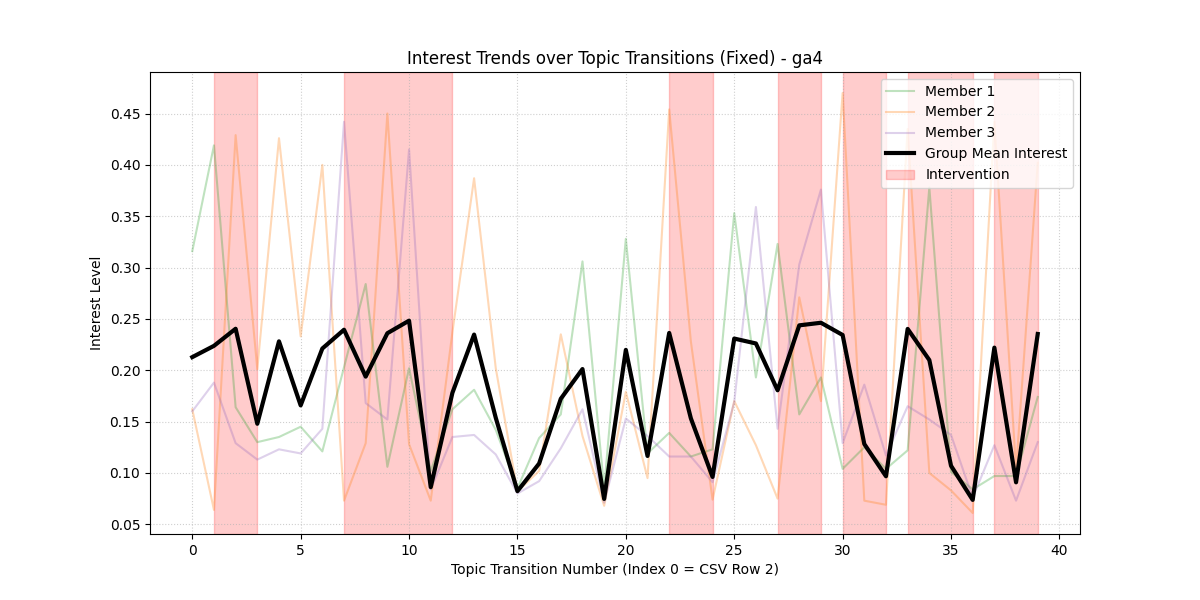
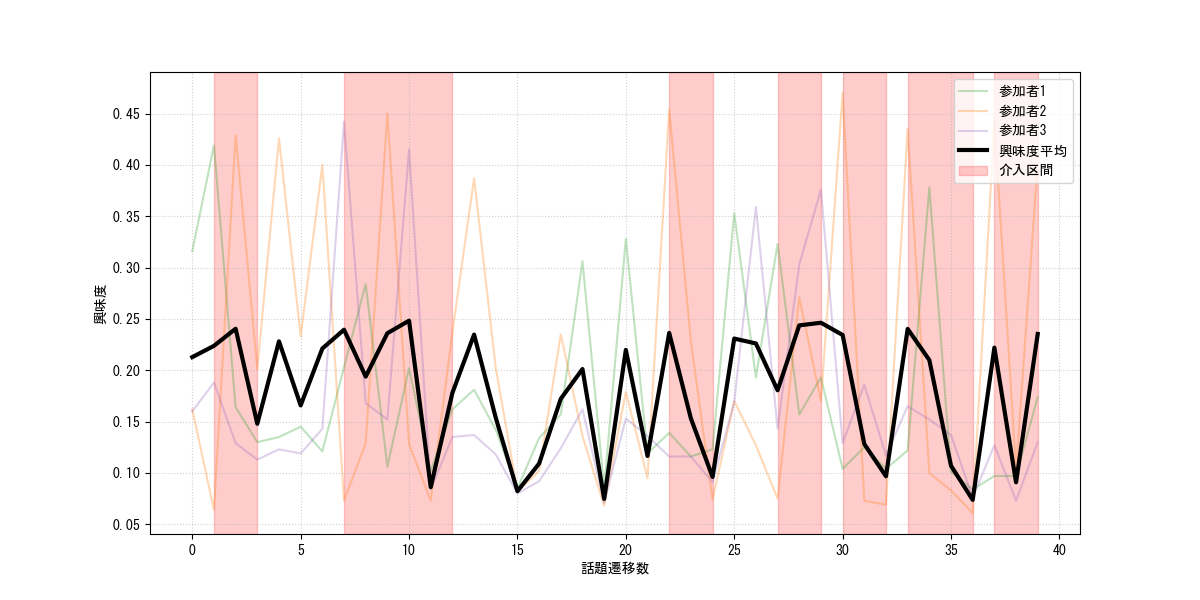
Edited graphs for easier understanding

diff --git a/Analysis/calc_interest_trends.py b/Analysis/calc_interest_trends.py
@@ -1,8 +1,9 @@
 import pandas as pd
 import matplotlib.pyplot as plt
 import numpy as np
+plt.rcParams['font.family'] = "MS Gothic"
 
-def plot_interest_trends_fixed(file_path, label):
+def plot_interest_trends_fixed(file_path):
     df = pd.read_csv(file_path)
     # 横軸：0から始まる話題遷移数（インデックス）
     # インデックス9 = CSVの11行目（データ開始から10番目）に対応
@@ -12,12 +13,12 @@ def plot_interest_trends_fixed(file_path, label):
     
     # 1. 個人の興味度（色分け＋透明度を調整）
     colors = ['#2ca02c', '#ff7f0e', '#9467bd'] # 緑, オレンジ, 紫
-    plt.plot(x, df['m1_interest'], color=colors[0], alpha=0.3, label='Member 1')
-    plt.plot(x, df['m2_interest'], color=colors[1], alpha=0.3, label='Member 2')
-    plt.plot(x, df['m3_interest'], color=colors[2], alpha=0.3, label='Member 3')
+    plt.plot(x, df['m1_interest'], color=colors[0], alpha=0.3, label='参加者1')
+    plt.plot(x, df['m2_interest'], color=colors[1], alpha=0.3, label='参加者2')
+    plt.plot(x, df['m3_interest'], color=colors[2], alpha=0.3, label='参加者3')
     
     # 2. 興味度平均（太い黒線で最前面に強調）
-    plt.plot(x, df['interestMean'], color='black', linewidth=3, label='Group Mean Interest', zorder=5)
+    plt.plot(x, df['interestMean'], color='black', linewidth=3, label='興味度平均', zorder=5)
     
     # 3. 介入区間の特定と描画（ずれの修正版）
     active = df['facilitatorActive'].values
@@ -30,11 +31,10 @@ def plot_interest_trends_fixed(file_path, label):
     for s, e in zip(starts, ends):
         # index s から e までの点を含むように ±0.5 の幅で塗りつぶし
         plt.axvspan(s, e, color='red', alpha=0.2, 
-                    label='Intervention' if s == starts[0] else "", zorder=1)
+                    label='介入区間' if s == starts[0] else "", zorder=1)
 
-    plt.title(f'Interest Trends over Topic Transitions (Fixed) - {label}')
-    plt.xlabel('Topic Transition Number (Index 0 = CSV Row 2)')
-    plt.ylabel('Interest Level')
+    plt.xlabel('話題遷移数')
+    plt.ylabel('興味度')
     plt.grid(True, linestyle=':', alpha=0.6)
     plt.legend(loc='upper right')
     
@@ -43,7 +43,12 @@ def plot_interest_trends_fixed(file_path, label):
     plt.show()
 
 # 実行
-plot_interest_trends_fixed('v03ga4_1.csv', 'ga1')
-plot_interest_trends_fixed('v03ga4_2.csv', 'ga1')
-plot_interest_trends_fixed('v03ga4_3.csv', 'ga1')
-plot_interest_trends_fixed('v03ga4_4.csv', 'ga1')
+plot_interest_trends_fixed('v02ga1.csv')
+plot_interest_trends_fixed('v02ga25.csv')
+plot_interest_trends_fixed('v02ga4.csv')
+plot_interest_trends_fixed('v03ga1.csv')
+plot_interest_trends_fixed('v03ga25.csv')
+plot_interest_trends_fixed('v03ga4.csv')
+plot_interest_trends_fixed('v035ga1.csv')
+plot_interest_trends_fixed('v035ga25.csv')
+plot_interest_trends_fixed('v035ga4.csv')

diff --git a/Analysis/intervention_scatter.py b/Analysis/intervention_scatter.py
@@ -1,5 +1,7 @@
 import pandas as pd
 import matplotlib.pyplot as plt
+import numpy as np
+plt.rcParams['font.family'] = "MS Gothic"
 
 def plot_corrected_intervention_scatter(file_path):
     # CSVデータの読み込み
@@ -15,23 +17,40 @@ def plot_corrected_intervention_scatter(file_path):
     # データの分離
     intervention_results = df[df['is_result']]
     normal_topics = df[~df['is_result']]
+
+    corr_coef = df['interestSD'].corr(df['interestMean'])
     
-    # 散布図の作成
+    # 近似直線 (y = ax + b) の計算
+    x_all = df['interestSD']
+    y_all = df['interestMean']
+    z = np.polyfit(x_all, y_all, 1) # 1次式でフィッティング
+    p = np.poly1d(z)
+
     plt.figure(figsize=(10, 6))
+
+    plt.xlim(0, x_all.max() + 0.05)
+    plt.ylim(0, y_all.max() + 0.05)
     
     # 1. 通常の話題および決定ポイントをプロット
     plt.scatter(normal_topics['interestSD'], normal_topics['interestMean'], 
-                color='gray', alpha=0.5, label='Normal Topics / Decision Points', s=50)
+                color='gray', alpha=0.5, label='通常の話題', s=50)
     
     # 2. 介入結果の話題をプロット
     plt.scatter(intervention_results['interestSD'], intervention_results['interestMean'], 
-                color='red', alpha=0.9, label='Intervention Result Topics', 
+                color='red', alpha=0.9, label='介入時の話題', 
                 s=100, marker='X', edgecolors='black')
     
+    # 近似直線のプロット
+    x_range = np.linspace(x_all.min(), x_all.max(), 100)
+    plt.plot(x_range, p(x_range), color='blue', linestyle='--', linewidth=2, 
+             label=f'回帰直線 ($r = {corr_coef:.3f}$)')
+    
+    plt.xlim(0, 0.25)
+    plt.ylim(0, 0.4)
+
     # グラフの装飾
-    plt.xlabel('Interest Standard Deviation (SD)')
-    plt.ylabel('Group Interest Mean')
-    plt.title(f'Interest Mean vs. SD: Intervention Results vs. Others\n({file_path})')
+    plt.xlabel('興味度分散')
+    plt.ylabel('興味度平均')
     plt.legend()
     plt.grid(True, linestyle='--', alpha=0.7)
     
@@ -41,6 +60,7 @@ def plot_corrected_intervention_scatter(file_path):
     plt.show()
 
 # 実行
+plot_corrected_intervention_scatter('v02ga1.csv')
 plot_corrected_intervention_scatter('v02ga25.csv')
 plot_corrected_intervention_scatter('v02ga4.csv')
 plot_corrected_intervention_scatter('v03ga1.csv')

diff --git a/Analysis/calc_avg_comparison.py b/Analysis/calc_avg_comparison.py
@@ -1,6 +1,8 @@
 import pandas as pd
 import matplotlib.pyplot as plt
 import numpy as np
+plt.rcParams['font.family'] = "MS Gothic"
+
 
 def plot_global_intervention_impact(file_path):
     df = pd.read_csv(file_path)
@@ -23,7 +25,7 @@ def plot_global_intervention_impact(file_path):
     
     # --- 折れ線グラフの描画 ---
     plt.figure(figsize=(6, 6))
-    x_labels = ['Total Grand Start', 'Total Grand Result']
+    x_labels = ['介入前', '介入後']
     x_pos = [0, 1]
     y_values = [grand_start, grand_result]
     
@@ -32,14 +34,15 @@ def plot_global_intervention_impact(file_path):
     
     # 数値のラベル表示（大きく表示）
     for x, y in zip(x_pos, y_values):
-        plt.text(x, y + 0.005, f'{y:.4f}', ha='center', va='bottom', fontweight='bold', fontsize=12)
+        plt.text(x, y + 0.005, f'{y:.4f}', ha='center', va='bottom', fontweight='bold', fontsize=13)
 
-    plt.xticks(x_pos, x_labels, fontsize=11)
-    plt.ylabel('Average Group Interest Mean', fontsize=11)
-    plt.title(f'Global Intervention Impact (Aggregated)\nFile: {file_path}')
-    plt.grid(True, axis='y', linestyle='--', alpha=0.7)
     plt.xlim(-0.5, 1.5)
-    plt.ylim(min(y_values) - 0.05, max(y_values) + 0.05)
+    plt.ylim(0.10, 0.35)
+    plt.tick_params(axis='y', labelsize=13)
+    plt.xticks(x_pos, x_labels, fontsize=18)
+    plt.ylabel('興味度平均', fontsize=18)
+    # plt.title(f'介入前後の興味度平均の変化\nFile: {file_path}')
+    plt.grid(True, axis='y', linestyle='--', alpha=0.7)
     plt.tight_layout()
     
     # 保存
@@ -48,7 +51,12 @@ def plot_global_intervention_impact(file_path):
     plt.show()
 
 # 実行
-plot_global_intervention_impact('v03ga4_1.csv')
-# plot_global_intervention_impact('v03ga4_2.csv')
-# plot_global_intervention_impact('v03ga4_3.csv')
-plot_global_intervention_impact('v03ga4_4.csv')
+plot_global_intervention_impact('v02ga1.csv')
+plot_global_intervention_impact('v02ga25.csv')
+plot_global_intervention_impact('v02ga4.csv')
+plot_global_intervention_impact('v03ga1.csv')
+plot_global_intervention_impact('v03ga25.csv')
+plot_global_intervention_impact('v03ga4.csv')
+plot_global_intervention_impact('v035ga1.csv')
+plot_global_intervention_impact('v035ga25.csv')
+plot_global_intervention_impact('v035ga4.csv')
